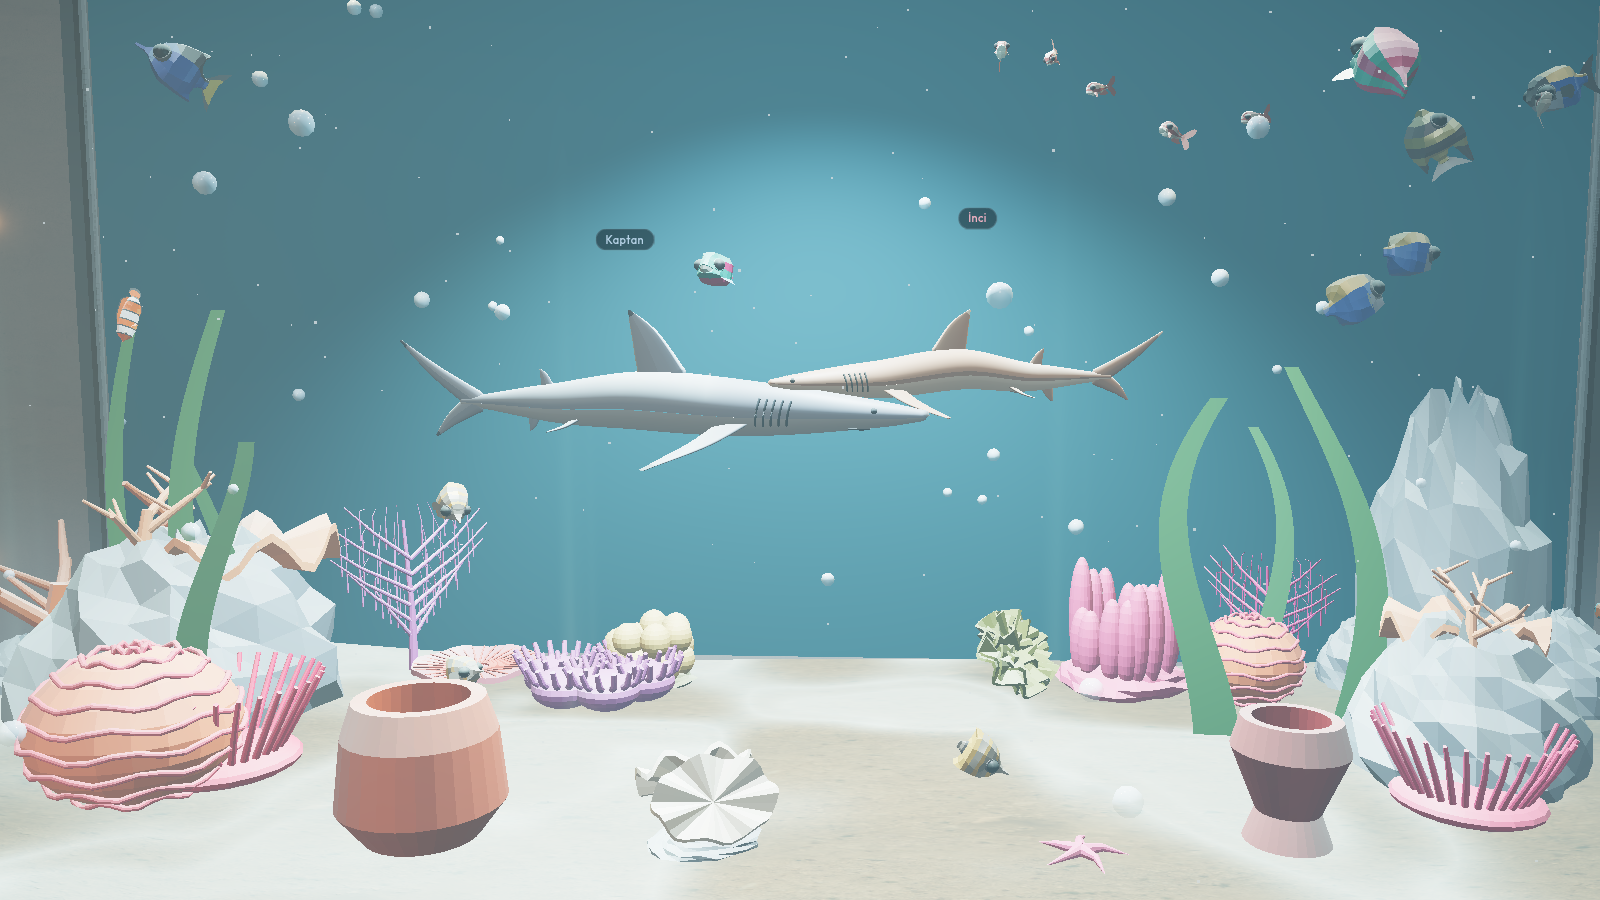
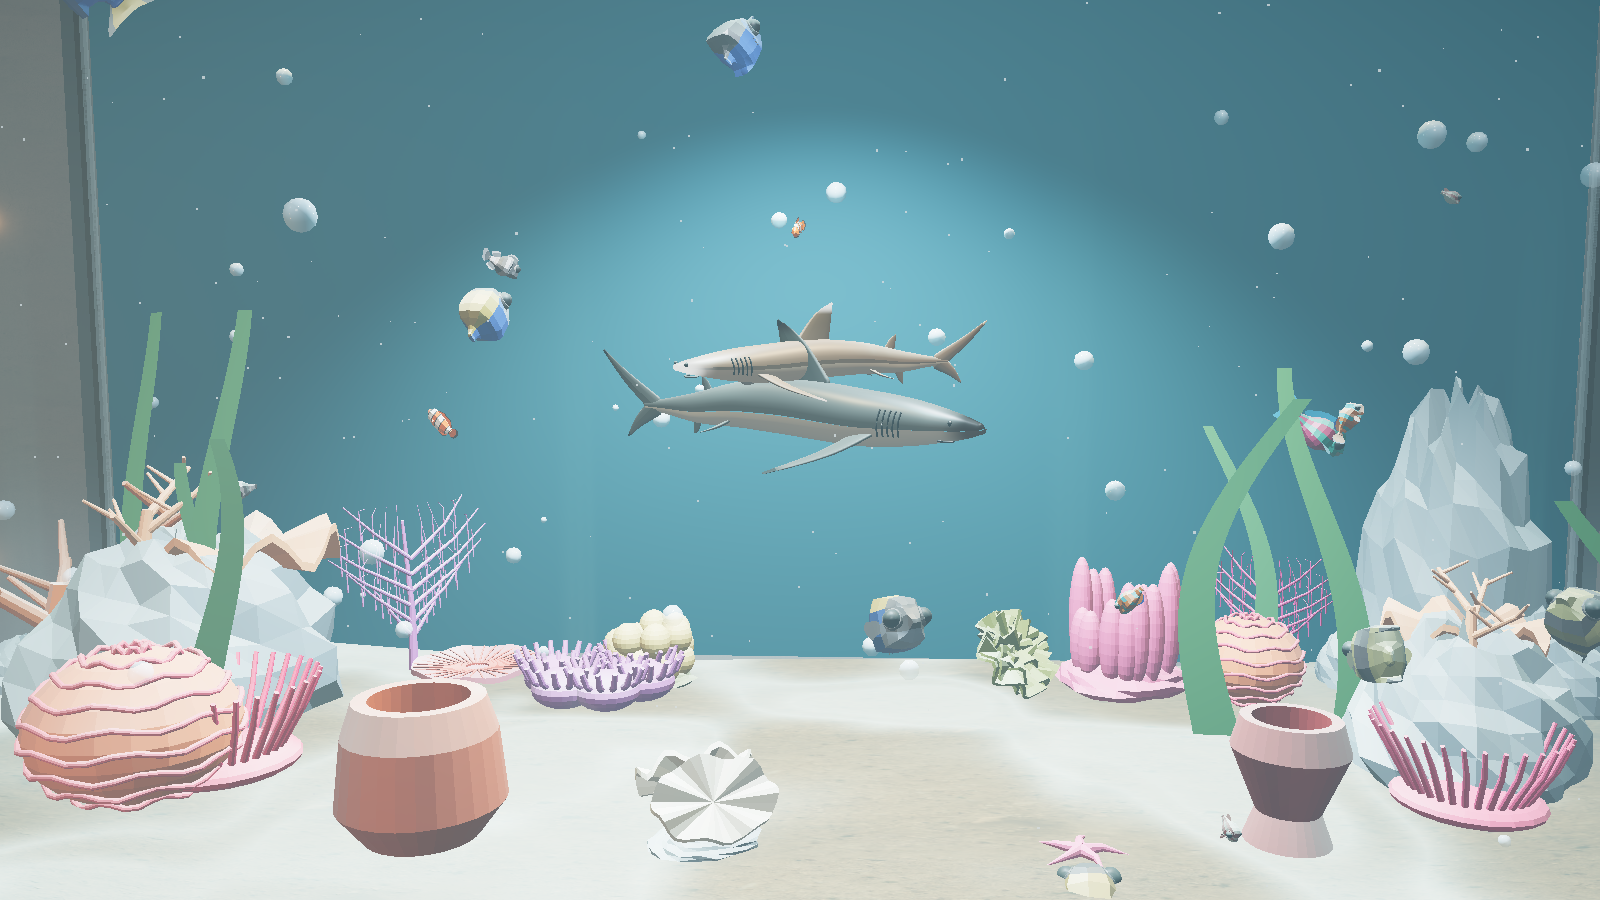
Köpekbalıkları: karşıt gölgeleme, yüzgeç uçları, parıltı ve daha yumuşak yüzüş
Kaptan koyu gri-bronz sırt ve siyahımsı yüzgeç uçları; İnci daha sıcak
bronz ve açık uçlar. Karın açık, gözde ışıltı, ıslak yansıma. Vertex
yüzüşü daha yumuşak. Orta/llvmpipe görüntüleri temiz.

diff --git a/js/actors.js b/js/actors.js
@@ -121,62 +121,113 @@ function addAlongAttribute(wrap) {
   const v = new THREE.Vector3();
   const buckets = [];
   let minX = Infinity, maxX = -Infinity;
+  let minY = Infinity, maxY = -Infinity;
+  let maxSide = 0;
   wrap.traverse((o) => {
     if (!o.isMesh || !o.geometry?.attributes?.position) return;
     const pos = o.geometry.attributes.position;
-    const arr = new Float32Array(pos.count);
+    const xs = new Float32Array(pos.count);
+    const ys = new Float32Array(pos.count);
+    const zs = new Float32Array(pos.count);
     for (let i = 0; i < pos.count; i++) {
       v.fromBufferAttribute(pos, i);
       o.localToWorld(v);
       v.applyMatrix4(inv);
-      arr[i] = v.x;
+      xs[i] = v.x; ys[i] = v.y; zs[i] = v.z;
       if (v.x < minX) minX = v.x;
       if (v.x > maxX) maxX = v.x;
+      if (v.y < minY) minY = v.y;
+      if (v.y > maxY) maxY = v.y;
+      maxSide = Math.max(maxSide, Math.abs(v.z));
     }
-    buckets.push({ o, arr });
+    buckets.push({ o, xs, ys, zs });
   });
-  const span = Math.max(1e-4, maxX - minX);
-  for (const { o, arr } of buckets) {
-    const along = new Float32Array(arr.length);
-    for (let i = 0; i < arr.length; i++) along[i] = (arr[i] - minX) / span;
+  const spanX = Math.max(1e-4, maxX - minX);
+  const spanY = Math.max(1e-4, maxY - minY);
+  const spanZ = Math.max(1e-4, maxSide);
+  for (const { o, xs, ys, zs } of buckets) {
+    const along = new Float32Array(xs.length);
+    const lift = new Float32Array(xs.length);
+    const side = new Float32Array(xs.length);
+    for (let i = 0; i < xs.length; i++) {
+      along[i] = (xs[i] - minX) / spanX;
+      lift[i] = (ys[i] - minY) / spanY;
+      side[i] = Math.abs(zs[i]) / spanZ;
+    }
     o.geometry = o.geometry.clone();
     o.geometry.setAttribute("aAlong", new THREE.BufferAttribute(along, 1));
+    o.geometry.setAttribute("aLift", new THREE.BufferAttribute(lift, 1));
+    o.geometry.setAttribute("aSide", new THREE.BufferAttribute(side, 1));
   }
 }
 
 function upgradeSharkMaterial(src, gender) {
   const p = new THREE.MeshStandardMaterial();
-  if (src) {
-    p.color = src.color ? src.color.clone() : new THREE.Color(0x8899aa);
-    p.map = src.map || null;
-    p.normalMap = src.normalMap || null;
-    p.roughnessMap = src.roughnessMap || null;
-    p.metalnessMap = src.metalnessMap || null;
-    p.aoMap = src.aoMap || null;
-    p.roughness = Math.min(src.roughness ?? 0.48, 0.48);
-    p.metalness = 0.04;
-    if (src.map) p.map.colorSpace = THREE.SRGBColorSpace;
+  const name = (src?.name || "").toLowerCase();
+  const srcCol = src?.color ? src.color.clone() : new THREE.Color(0x6a7074);
+  const lum = srcCol.r * 0.22 + srcCol.g * 0.5 + srcCol.b * 0.14;
+  const isDark = name.includes("dark") || lum < 0.16;
+  const isCream = name.includes("cream") || lum > 0.62;
+  if (src?.map) {
+    p.map = src.map;
+    p.map.colorSpace = THREE.SRGBColorSpace;
   }
-  if (gender === "f") {
-    p.color.multiply(new THREE.Color(0.95, 0.82, 0.72));
-    p.emissive = new THREE.Color(0x1a100c);
+  if (isDark) {
+    p.color.set(0x07080a);
+    p.roughness = 0.16;
+    p.metalness = 0.42;
+    p.envMapIntensity = 1.25;
+    p.emissive = new THREE.Color(0x101218);
+    p.emissiveIntensity = 0.12;
+    p.userData.role = "eye";
+  } else if (isCream) {
+    p.color.set(gender === "f" ? 0xcbb39a : 0xc2c0b4);
+    p.roughness = 0.52;
+    p.metalness = 0.03;
+    p.envMapIntensity = 0.4;
+    p.userData.role = "belly";
   } else {
-    p.color.multiply(new THREE.Color(0.46, 0.52, 0.62));
-    p.emissive = new THREE.Color(0x0a1218);
+    p.color.set(gender === "f" ? 0x6a4e38 : 0x3c403e);
+    p.roughness = 0.36;
+    p.metalness = 0.1;
+    p.envMapIntensity = 0.85;
+    p.emissive = new THREE.Color(gender === "f" ? 0x1a1208 : 0x0c1214);
+    p.emissiveIntensity = 0.03;
+    p.userData.role = "body";
   }
-  p.emissiveIntensity = 0.05;
-  p.envMapIntensity = 0.55;
-  p.roughness = Math.min(Math.max(p.roughness, 0.42), 0.62);
   return p;
 }
 
 const SWIM_VERT = `
-  float along = aAlong;
-  float wag = sin(uTime * 6.15 + along * 5.4 + uPhase) * uAmp * along * along;
-  transformed.z += wag * 0.45;
-  transformed.x += wag * 0.02;
-  float pec = smoothstep(0.32, 0.52, along) * (1.0 - smoothstep(0.52, 0.78, along));
-  transformed.y += sin(uTime * 8.2 + uPhase) * pec * uAmp * 0.16;
+  float along = clamp(aAlong, 0.0, 1.0);
+  float tail = pow(smoothstep(0.22, 1.0, along), 1.25);
+  float wag = sin(uTime * 5.15 + along * 3.6 + uPhase);
+  float wag2 = sin(uTime * 7.1 + along * 5.8 + uPhase) * 0.18;
+  transformed.z += (wag + wag2) * uAmp * tail * 0.48;
+  transformed.x += wag * uAmp * tail * 0.016;
+  float pec = smoothstep(0.26, 0.44, along) * (1.0 - smoothstep(0.50, 0.74, along));
+  transformed.y += sin(uTime * 6.2 + uPhase) * pec * uAmp * 0.10;
+  vAlong = along;
+  vLift = aLift;
+  vSide = aSide;
+`;
+
+const SHARK_MARKS = `
+  float dorsal = smoothstep(0.55, 0.82, vLift);
+  vec3 bronze = mix(outgoingLight, outgoingLight * vec3(0.62, 0.58, 0.48), dorsal * 0.55);
+  outgoingLight = bronze;
+  float belly = 1.0 - smoothstep(0.35, 0.62, vLift);
+  outgoingLight = mix(outgoingLight, outgoingLight * vec3(1.18, 1.14, 1.08) + vec3(0.03, 0.03, 0.025), belly * 0.35);
+  float tailTip = smoothstep(0.88, 0.96, vAlong) * smoothstep(0.15, 0.55, max(vLift, vSide));
+  float dorsalTip = smoothstep(0.86, 0.96, vLift) * smoothstep(0.36, 0.52, vAlong) * (1.0 - smoothstep(0.68, 0.86, vAlong));
+  float pecTip = smoothstep(0.80, 0.94, vSide) * (1.0 - smoothstep(0.62, 0.85, vLift)) * smoothstep(0.22, 0.40, vAlong) * (1.0 - smoothstep(0.55, 0.75, vAlong));
+  float caudal = smoothstep(0.90, 0.97, vAlong);
+  float tip = clamp(max(max(tailTip, dorsalTip), max(pecTip, caudal)), 0.0, 1.0);
+  vec3 markCol = uMark > 0.5 ? vec3(0.95, 0.96, 0.93) : vec3(0.015, 0.015, 0.018);
+  outgoingLight = mix(outgoingLight, markCol, tip * 0.92);
+  // wet sheen
+  float shine = pow(clamp(dot(normalize(normal), vec3(0.15, 0.75, 0.64)), 0.0, 1.0), 28.0);
+  outgoingLight += vec3(0.55, 0.65, 0.68) * shine * 0.28;
 `;
 
 export function createSharkActor(spec, gltf, uniforms, length) {
@@ -201,10 +252,20 @@ export function createSharkActor(spec, gltf, uniforms, length) {
         const upgraded = mats.map((m) => {
           const p = upgradeSharkMaterial(m, spec.gender);
           applyUnderwater(p, uniforms, {
-            key: "shark-swim-" + spec.gender,
-            uniforms: { uAmp: swimU.uAmp, uPhase: swimU.uPhase },
-            vertexCommon: "attribute float aAlong; uniform float uAmp; uniform float uPhase; uniform float uTime;",
+            key: "shark-swim-" + spec.gender + "-" + (p.userData.role || "body"),
+            uniforms: {
+              uAmp: swimU.uAmp,
+              uPhase: swimU.uPhase,
+              uMark: { value: spec.gender === "f" ? 1 : 0 },
+              uCauGain: { value: 0.42 },
+            },
+            vertexCommon: "attribute float aAlong; attribute float aLift; attribute float aSide; varying float vAlong; varying float vLift; varying float vSide; uniform float uAmp; uniform float uPhase; uniform float uTime;",
+            fragmentCommon: "varying float vAlong; varying float vLift; varying float vSide; uniform float uMark;",
             vertexBend: SWIM_VERT,
+            fragmentExtra: p.userData.role === "eye" ? `
+              float glint = pow(clamp(dot(normalize(normal), normalize(vec3(0.2, 0.6, 0.75))), 0.0, 1.0), 40.0);
+              outgoingLight += vec3(0.85, 0.9, 0.95) * glint * 0.8;
+            ` : SHARK_MARKS,
           });
           return p;
         });

diff --git a/js/world.js b/js/world.js
@@ -235,6 +235,7 @@ export function applyUnderwater(material, uniforms, hooks = {}) {
     shader.uniforms.uFogDensity = uniforms.uFogDensity;
     if (uniforms.uCausticColor) shader.uniforms.uCausticColor = uniforms.uCausticColor;
     if (hooks.uniforms) Object.assign(shader.uniforms, hooks.uniforms);
+    if (!shader.uniforms.uCauGain) shader.uniforms.uCauGain = hooks.uniforms?.uCauGain || { value: 1.0 };
     shader.vertexShader = shader.vertexShader
       .replace(
         "#include <common>",
@@ -251,7 +252,7 @@ export function applyUnderwater(material, uniforms, hooks = {}) {
         vWorldPos = (modelMatrix * vec4(transformed, 1.0)).xyz;`
       );
     shader.fragmentShader = shader.fragmentShader
-      .replace("#include <common>", "#include <common>\n" + WATER_HELPERS)
+      .replace("#include <common>", "#include <common>\nuniform float uCauGain;\n" + (hooks.fragmentCommon || "") + "\n" + WATER_HELPERS)
       .replace(
         "#include <opaque_fragment>",
         `{
@@ -264,7 +265,8 @@ export function applyUnderwater(material, uniforms, hooks = {}) {
         float c = caustic(vWorldPos.xz);
         float up = clamp(dot(normalize(normal), vec3(0.0, 1.0, 0.0)), 0.0, 1.0);
         vec3 cauCol = vec3(0.55, 0.95, 0.92);
-        outgoingLight += cauCol * (0.28 + 1.15 * c) * up * mix(1.0, 0.28, uNight) * (1.0 - absorb * 0.35);
+        outgoingLight += cauCol * (0.28 + 1.15 * c) * up * mix(1.0, 0.28, uNight) * (1.0 - absorb * 0.35) * uCauGain;
+        ${hooks.fragmentExtra || ""}
         }
         #include <opaque_fragment>`
       );

diff --git a/index.html b/index.html
@@ -138,6 +138,6 @@
       </form>
     </div>
   </div>
-  <script type="module" src="js/main.js?v=20261121q"></script>
+  <script type="module" src="js/main.js?v=20261121r"></script>
 </body>
 </html>
